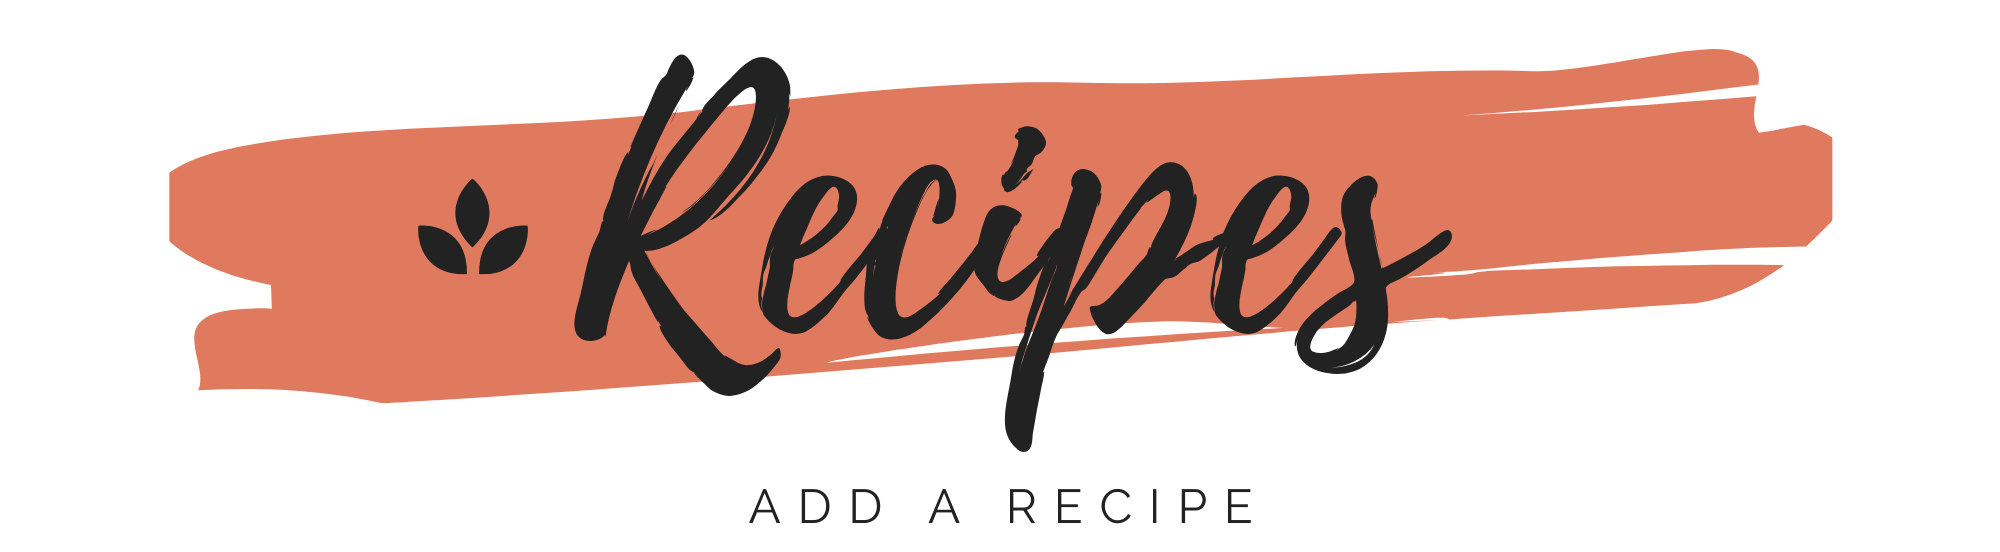
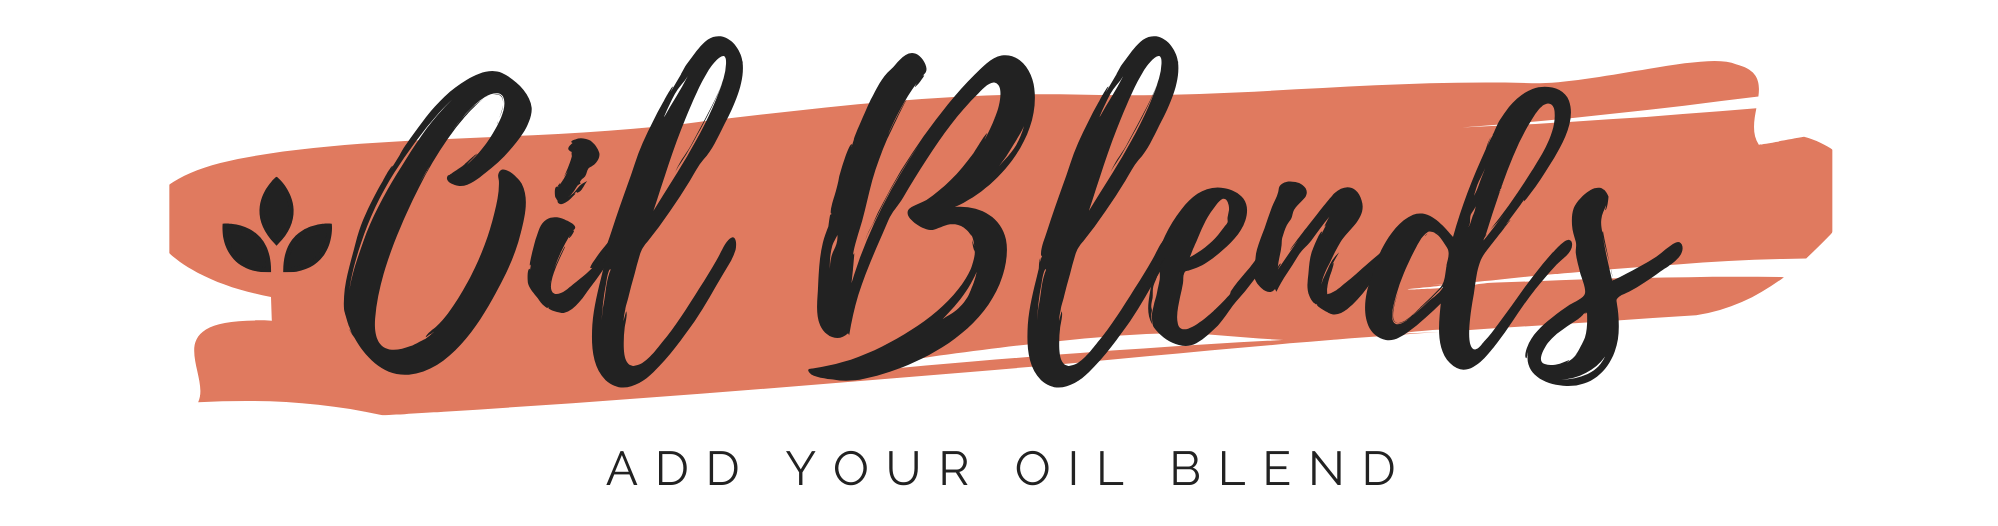
changed recipes to oil blend

Changed region(s): [[0.0621, 0.0608, 0.9309, 0.8213], [0.3103, 0.8517, 0.7137, 0.943]]

diff --git a/aromableapp/templates/shared/base.html b/aromableapp/templates/shared/base.html
@@ -35,7 +35,7 @@
         <ol class="navList">
             <li class="navList__route navbarspace"><a class="links" href="{% url 'aromableapp:home' %}">Home</a></li>
             <li class="navList__route navbarspace"><a class="links" href="{% url 'aromableapp:ingredients' %}">Oils</a></li>
-            <li class="navList__route navbarspace"><a class="links" href="{% url 'aromableapp:recipes' %}">Recipes</a></li>
+            <li class="navList__route navbarspace"><a class="links" href="{% url 'aromableapp:recipes' %}">Oil Blends</a></li>
             <li class="navList__route navbarspace"><a class="links" href="{% url 'aromableapp:categories' %}">Categories</a></li>
             <li class="navList__route navbarspace"><a class="links" href="{% url 'aromableapp:favorites' %}">Favorites</a></li>
             <li class="navList__route navbarspace"><a class="links" href="{% url 'aromableapp:logout' %}">Logout</a></li>

diff --git a/aromableapp/templates/home.html b/aromableapp/templates/home.html
@@ -19,8 +19,8 @@ margin-right: auto;"  >
 <a class="btn btn-secondary home space" href="{% url 'aromableapp:ingredient_form' %}">Add Oil</a>
 <a class="btn btn-secondary home space" href="{% url 'aromableapp:ingredients' %}">View Oil Inventory</a>
 <a class="btn btn-secondary home space" href="{% url 'aromableapp:category_form' %}">Add Category</a>
-<a class="btn btn-secondary home space" href="{% url 'aromableapp:recipes' %}">View Recipes</a>
-<a class="btn btn-secondary home space" href="{% url 'aromableapp:recipe_form' %}">Add Recipe</a>
+<a class="btn btn-secondary home space" href="{% url 'aromableapp:recipes' %}">View Oil Blends</a>
+<a class="btn btn-secondary home space" href="{% url 'aromableapp:recipe_form' %}">Add Oil Blend</a>
 <a class="btn btn-secondary home space" href="{% url 'aromableapp:favorites' %}">View My Favorites</a>
 
 {% endblock content %}

diff --git a/aromableapp/templates/recipes/form.html b/aromableapp/templates/recipes/form.html
@@ -27,11 +27,11 @@ margin-right: auto;"  >
     <div class="form-group insideformdiv">
     <fieldset>
       <label for="name"> </label>
-      <input class="form-control" id="name" type="text" name="name" placeholder="Name of Recipe" value="{{ recipe.name }}" />
+      <input class="form-control" id="name" type="text" name="name" placeholder="Oil Blend Name" value="{{ recipe.name }}" />
     </fieldset>
     <fieldset>
       <label for="notes"></label>
-      <input class="form-control" id="notes" type="text" name="notes" placeholder="Recipe Notes" value="{{ recipe.notes }}" />
+      <input class="form-control" id="notes" type="text" name="notes" placeholder="Oil Blend Notes" value="{{ recipe.notes }}" />
     </fieldset>
     <fieldset>
       <label for="exampleSelect1 category">Category </label>

diff --git a/aromableapp/templates/recipes/list.html b/aromableapp/templates/recipes/list.html
@@ -20,7 +20,7 @@ margin-right: auto;"  >
     <!-- <h1>Recipes</h1> -->
 <br>
 <div class="addrecipediv"></div>
-    <a class="addrecipe" href="{% url 'aromableapp:recipe_form' %}">Add Recipe</a>
+    <a class="addrecipe" href="{% url 'aromableapp:recipe_form' %}">Add Oil Blend</a>
 
     <ol>
     {% for recipe in all_recipes %}

diff --git a/aromableapp/static/styles/recipelist.css b/aromableapp/static/styles/recipelist.css
@@ -3,8 +3,8 @@
     background: #e07a5f;
     border-radius: 10px;
     font-size: 25px;
-    /* margin: 20px; */
-    padding: 10px 100px;
+    margin: 20px;
+    padding: 10px 68px;
     margin-left: 45px;
 
 }
@@ -26,8 +26,8 @@ ol {
     padding-top: 50px;
 }
 
-li {
+/* li {
     height: 80px;
-}
+} */
 
 
